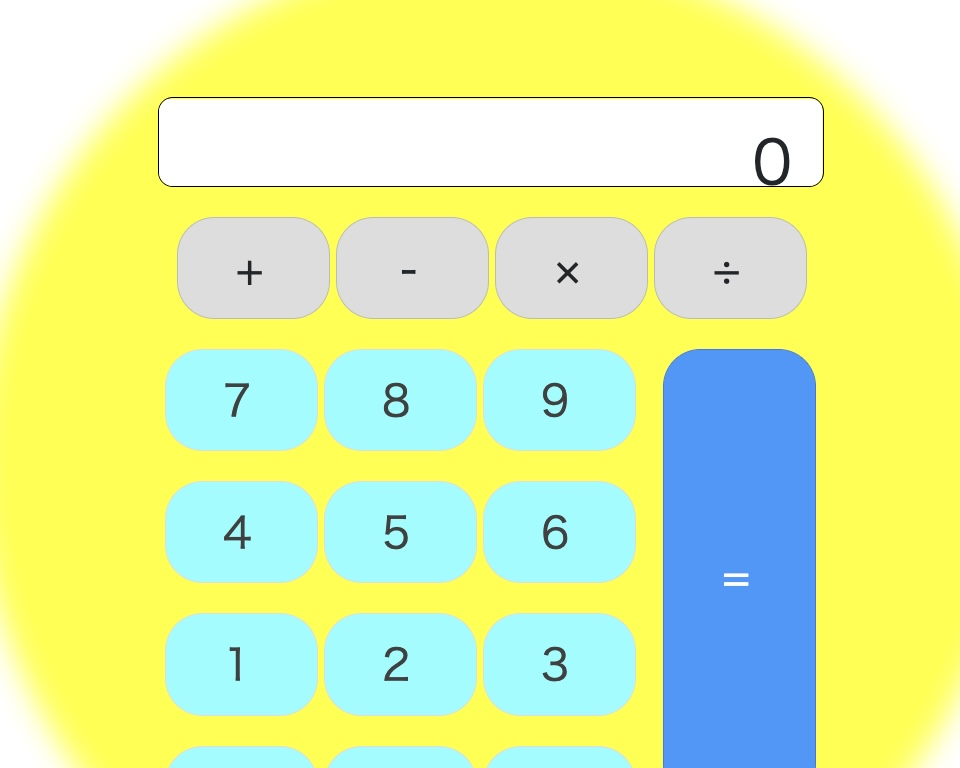
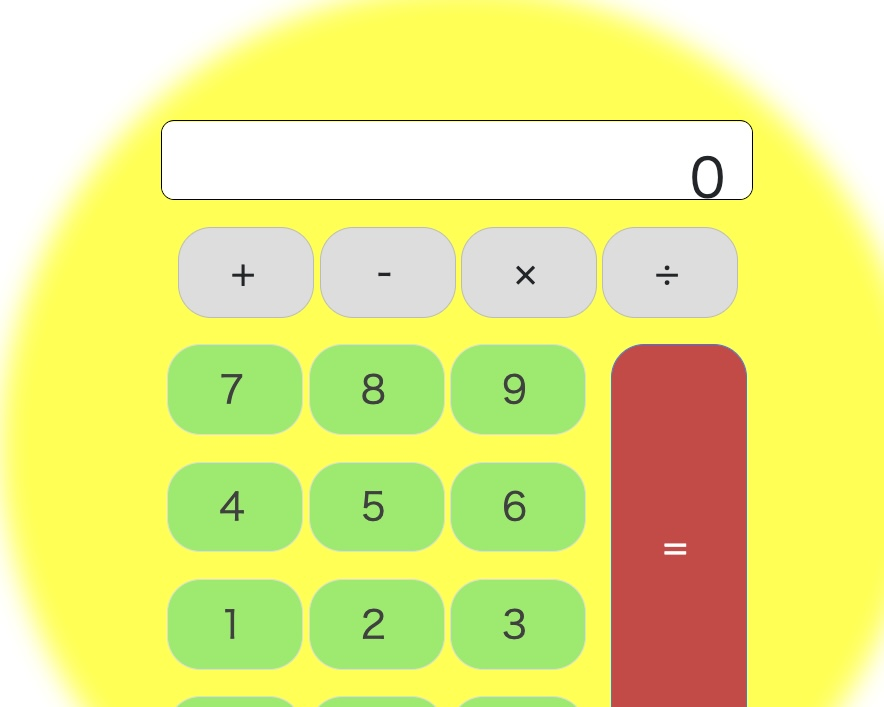
[modified]デザインの修正

diff --git a/public/css/calc6.css b/public/css/calc6.css
@@ -91,7 +91,7 @@ h1{
   margin: 10px 4px 10px 0;
   cursor: pointer;
   border-radius: 25px;
-  background-color: #84ffff; /*電卓の数字部分のカラー*/
+  background-color: #ffbc5e; /*電卓の数字部分のカラー*/
   transition: border-color .2s ease-in-out, background-color .2s, box-shadow .2s;
   color: #404040;
 }
@@ -118,12 +118,12 @@ div.equal {
   vertical-align: top;
   cursor: pointer;
   color: #FFF;
-  background-color: #3399ff;
+  background-color: #e0701a;
   transition: all .2s ease-in-out;
 }
 
 div.equal:hover {
-  background-color: #007fff; /*カーソルをボタン上に置いた時にここで指定した色に変化する*/
+  background-color: #ce4800; /*カーソルをボタン上に置いた時にここで指定した色に変化する*/
   -webkit-box-shadow: 0px 1px 4px 0px rgba(0, 0, 0, 0.2);
   box-shadow: 0px 1px 4px 0px rgba(0, 0, 0, 0.2);
   border-color: #1857BB;
@@ -192,4 +192,50 @@ a{
     width:100%;
   height: 100vh;
   vertical-align: bottom;/*canvasタグ下に余白が生まれるのを防ぐ*/
+}
+
+
+
+.spinner-box {
+  width: 300px;
+  height: 300px;
+  display: flex;
+  justify-content: center;
+  align-items: center;
+  background-color: transparent;
+}
+
+.pulse-container {
+  width: 300px;
+  display: flex;
+  justify-content: space-between;
+  align-items: center;
+}
+
+.pulse-bubble {
+  width: 50px;
+  height: 50px;
+  border-radius: 50%;
+  background-color: #3ff9dc;
+}
+
+.pulse-bubble-1 {
+    animation: pulse .4s ease 0s infinite alternate;
+}
+.pulse-bubble-2 {
+    animation: pulse .4s ease .2s infinite alternate;
+}
+.pulse-bubble-3 {
+    animation: pulse .4s ease .4s infinite alternate;
+}
+
+@keyframes pulse {
+  from {
+    opacity: 1;
+    transform: scale(1);
+  }
+  to {
+    opacity: .25;
+    transform: scale(.75);
+  }
 }

diff --git a/public/css/calc2.css b/public/css/calc2.css
@@ -151,7 +151,7 @@ h1{
 }
 
 .numbers div:hover {
-  background-color: #ffff28; /*カーソルをボタン上に置いた時にここで指定した色に変化する*/
+  background-color: #3cb371; /*カーソルをボタン上に置いた時にここで指定した色に変化する*/
   -webkit-box-shadow: 0px 1px 4px 0px rgba(0, 0, 0, 0.2);
   box-shadow: 0px 1px 4px 0px rgba(0, 0, 0, 0.2);
   border-color: #bbb;
@@ -177,7 +177,7 @@ div.equal {
 }
 
 div.equal:hover {
-  background-color: #007fff; /*カーソルをボタン上に置いた時にここで指定した色に変化する*/
+  background-color: #b20002; /*カーソルをボタン上に置いた時にここで指定した色に変化する*/
   -webkit-box-shadow: 0px 1px 4px 0px rgba(0, 0, 0, 0.2);
   box-shadow: 0px 1px 4px 0px rgba(0, 0, 0, 0.2);
   border-color: #1857BB;

diff --git a/public/js/calc_index.js b/public/js/calc_index.js
@@ -16,7 +16,7 @@ function starSet(clone) {
     //星の位置（left）、アニメーションの遅延時間（animation-delay）、サイズ（font-size）をランダムで指定
     starStyle.left = 100 * Math.random() + "%";
     starStyle.animationDelay = 8 * Math.random() + "s";
-    starStyle.fontSize = ~~(50 * Math.random() + 20) + "px";
+    starStyle.fontSize = ~~(60 * Math.random() + 20) + "px";
     document.body.appendChild(starClone);
 
     //星一つのアニメーションが終わったら新しい星を生成
@@ -29,5 +29,5 @@ function starSet(clone) {
     }, false)
 }
 
-//使用例。星を50個ふらせます。
-starMaker(80)
+//星を90個ふらせます。
+starMaker(130)

diff --git a/public/css/calc4.css b/public/css/calc4.css
@@ -110,7 +110,7 @@ h1{
 }
 
 .numbers div:hover {
-  background-color: #ffff28; /*カーソルをボタン上に置いた時にここで指定した色に変化する*/
+  background-color: #00c3dd; /*カーソルをボタン上に置いた時にここで指定した色に変化する*/
   -webkit-box-shadow: 0px 1px 4px 0px rgba(0, 0, 0, 0.2);
   box-shadow: 0px 1px 4px 0px rgba(0, 0, 0, 0.2);
   border-color: #bbb;

diff --git a/public/css/calc_index.css b/public/css/calc_index.css
@@ -12,7 +12,7 @@
 .Button-style {
   font-size: 16px;
   display: inline-block;
-  background: #ffffff;
+  background: #9ee8ff;
   color: #44617b;
   width: 80px;
   height: 80px;

diff --git a/resources/views/calculator/index.blade.php b/resources/views/calculator/index.blade.php
@@ -16,42 +16,43 @@
     <script src="{{asset('js/calc_index.js')}}" defer></script>
   </head>
   
-<body>
-  <h1 style="text-align:center; font-size: xxx-large; color:#44617b;" class="DotGothic16">電卓一覧</h1>
+<body style="background-color:#9ee8ff;">
+
+  <h1 style="text-align:center; font-size: 70px; color:#44617b;" class="DotGothic16">電卓一覧</h1>
 　　　
    <div class="calculator" style="display: grid; width:80%; margin: 0 auto; grid-template-columns: 1fr 1fr 1fr;">
       <div style="margin: 15px 15px 30px 15px;  text-align:center;">
      
-      <img style="width:500px; heigth:400px; border-radius:10px; border: 5px #dfdfdf solid;" src="{{asset('img/calc1.jpg')}}" />
+      <img style="width:600px; heigth:500px; border-radius:30px; border: 5px #dfdfdf solid;" src="{{asset('img/calc1.jpg')}}" />
        <p><a style="text-decoration: none; font-size: xx-large; color:#3399ff;" class="DotGothic16" href='/calculator/1'>ちょうどいい電卓</a></p>
       </div>
       
       <div style="margin: 15px 15px 30px 15px;  text-align:center;">
-      <img style="width:500px; heigth:400px; border-radius:10px; border: 5px #dfdfdf solid;" src="{{asset('img/calc2.jpg')}}" />
+      <img style="width:600px; heigth:500px; border-radius:30px; border: 5px #dfdfdf solid;" src="{{asset('img/calc2.jpg')}}" />
        <br />
        <p><a style="text-decoration: none; font-size: xx-large; color:#cc0000;" class="DotGothic16" href='/calculator/2'>ランダム電卓</a></p>
       </div>
       
       <div style="margin: 15px 15px 30px 15px; text-align:center;">
-            <img style="width:500px; heigth:400px; border-radius:10px; border: 5px #dfdfdf solid;" src="{{asset('img/calc3.jpg')}}" />
+            <img style="width:600px; heigth:500px; border-radius:30px; border: 5px #dfdfdf solid;" src="{{asset('img/calc3.jpg')}}" />
             <br />
             <p><a style="text-decoration: none; font-size: xx-large; color:#fcc800;" class="DotGothic16" href='/calculator/3'>しゃべる電卓</a></p>
       </div>
        
       <div style="margin: 15px;  text-align:center;">
-            <img src="https://2.bp.blogspot.com/--BYLyPduBgM/WaPvldUDt9I/AAAAAAABGNw/XTkwA_fBEC86bpvy2z7-1jZ9-dEc_6_jQCLcBGAs/s400/dentaku_syoumen_small.png" />
+             <img style="width:600px; heigth:500px; border-radius:30px; border: 5px #dfdfdf solid;" src="{{asset('img/calc4.jpg')}}" />
             <br />
             <a style="text-decoration: none; font-size: xx-large; color:#9900cc;" class="DotGothic16" href='/calculator/4'>消えゆく電卓</a>
       </div>
       
       <div style="margin: 15px;  text-align:center;">
-             <img src="https://2.bp.blogspot.com/--BYLyPduBgM/WaPvldUDt9I/AAAAAAABGNw/XTkwA_fBEC86bpvy2z7-1jZ9-dEc_6_jQCLcBGAs/s400/dentaku_syoumen_small.png" />
+              <img style="width:600px; heigth:500px; border-radius:30px; border: 5px #dfdfdf solid;" src="{{asset('img/calc5.jpg')}}" />
              <br />
              <a style="text-decoration: none; font-size: xx-large; color:#33cc00;" class="DotGothic16" href='/calculator/5'>暗算電卓</a>
       </div>
      
       <div style="margin: 15px;  text-align:center;">
-             <img src="https://2.bp.blogspot.com/--BYLyPduBgM/WaPvldUDt9I/AAAAAAABGNw/XTkwA_fBEC86bpvy2z7-1jZ9-dEc_6_jQCLcBGAs/s400/dentaku_syoumen_small.png" />
+             <img style="width:600px; heigth:500px; border-radius:30px; border: 5px #dfdfdf solid;" src="{{asset('img/calc6.jpg')}}" />
              <br />
              <a style="text-decoration: none; font-size: xx-large; color:#ff6600;" class="DotGothic16" href='/calculator/6'>Coming Soon...</a>
        </div>

diff --git a/resources/views/calculator/calc6.blade.php b/resources/views/calculator/calc6.blade.php
@@ -18,6 +18,14 @@
     <script src="{{asset('js/calculator6.js')}}" defer></script>
   </head>
   <body>
+    <!-- LOADING DOTS... -->
+<!--<div class="spinner-box">-->
+<!--  <div class="pulse-container">  -->
+<!--    <div class="pulse-bubble pulse-bubble-1"></div>-->
+<!--    <div class="pulse-bubble pulse-bubble-2"></div>-->
+<!--    <div class="pulse-bubble pulse-bubble-3"></div>-->
+<!--  </div>-->
+<!--</div>-->
     
       <div id="wrapper">
         <canvas id="particle"></canvas>

diff --git a/resources/views/calculator/calc1.blade.php b/resources/views/calculator/calc1.blade.php
@@ -69,8 +69,8 @@
         <div class="equal" id="result">=</div>
       </div>
     </div>
-    <div class="comment">
-      <p style="text-align:center; font-size:xxx-large;" id="neko"></p>
+    <div style="margin-top:40px;" class="comment">
+      <!--<p style="text-align:center; font-size:xxx-large;" id="neko"></p>-->
     </div>
     
     <button id="goBack" class="Button-style" type="button">戻る</button>

diff --git a/resources/views/calculator/calc5.blade.php b/resources/views/calculator/calc5.blade.php
@@ -16,6 +16,7 @@
     <script src="{{asset('js/calculator5.js')}}" defer></script>
   </head>
   <body>
+    
     <h1 class="DotGothic16">暗算電卓</h1>
     <div class="calculator">
       <div class="input" id="input"></div>
